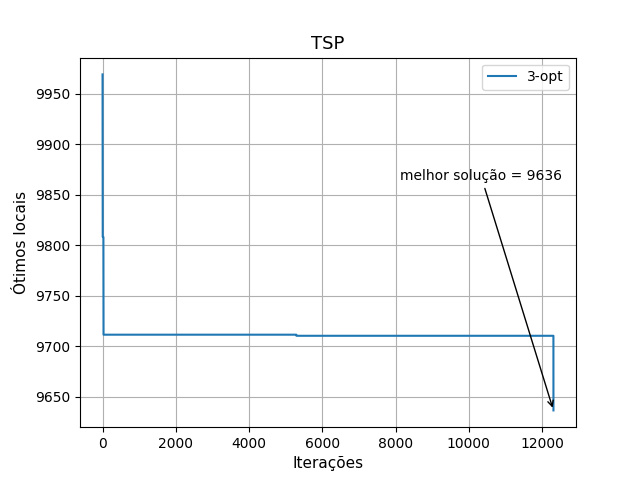
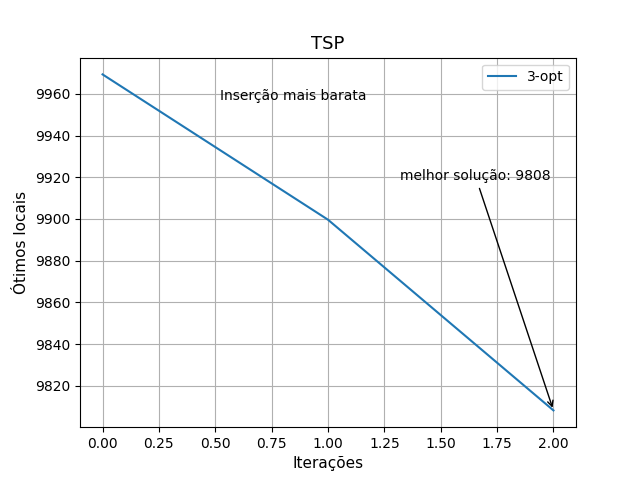
vizinho mais distante incluso

diff --git a/PCV/constructive.py b/PCV/constructive.py
@@ -8,7 +8,6 @@
 from math import dist
 
 # Uma cópia local de funções como essa reduz o tempo de execução
-from improvement import sumdistance
 
 localLen = len
 localDist = dist
@@ -59,6 +58,45 @@ def nearestneighbour(graph):
 
 ###########################################################################################
 
+def distantneighbour(graph):
+    selected = 1
+    first = selected
+
+    walkedPath = [selected]
+    graph[selected]['used'] = True
+
+    while True:
+        maior = float('-inf')
+
+        maior_index = -1
+
+        # Conteiro para verificar se todos os vizinho já foram explorados
+        end_counter = 0
+        for i in range(1, localLen(graph)):
+            # print("selected = {} i = {}".format(selected, i))
+
+            if (i == selected) or (graph[i]['used']):
+                end_counter += 1
+                continue
+            disti = localDist([graph[selected]['x'], graph[selected]['y']], [graph[i]['x'], graph[i]['y']])
+            if disti > maior:
+                maior = disti
+                maior_index = i
+
+        if end_counter == (localLen(graph) - 1):
+            walkedPath.append(first)
+            break
+
+        walkedPath.append(maior_index)
+        graph[maior_index]['used'] = True
+        selected = maior_index
+
+    # print(f'\nwalkedPath = {walkedPath}')
+
+    return walkedPath
+
+###########################################################################################
+
 def insertdist(graph):
     route = [1, 2, 3]
     sizegraph = localLen(graph)
@@ -70,7 +108,7 @@ def insertdist(graph):
         k = 1
         selected_i = 1
         for i in range(localLen(route) - 1):
-            for j in range(i + 1, sizegraph ):
+            for j in range(i + 1, sizegraph):
                 disti = localDist([graph[route[i]]['x'], graph[route[i]]['y']], [graph[j]['x'], graph[j]['y']])
                 if graph[j]['used'] is False and disti > maior:
                     k = j

diff --git a/PCV/main.py b/PCV/main.py
@@ -1,8 +1,8 @@
 # -*- coding: utf-8 -*-
 
-from input import fileinput, runcodesinput
+from input import fileinput
 from constructive_matrix import nearestneighbour_matrix, insertdist_matrix, getalldistances, insertcheap_matrix
-from constructive import nearestneighbour, insertdist, insertcheap
+from constructive import nearestneighbour, insertdist, insertcheap, distantneighbour
 from improvement_matrix import two_opt_matrix, sumdistance_matrix
 from improvement import two_opt, sumdistance, three_opt
 from aux import printgraph, plot_graf
@@ -65,7 +65,11 @@ if __name__ == '__main__':
 
         ### Heurística melhorativa 3-opt
         elif args.algoritmo_melhorativo == 'opt3':
-            three_opt(graph, route)
+            print('### Heurística melhorativa 3opt...')
+            cost, plt_counters, plt_opts = three_opt(graph, route)
+            cost = int(cost)
+            imp_name = "3-opt"
+            plot_graf(plt_opts, plt_counters, constr_name, imp_name, file_name, cost)
         else:
             print("{} não é um argumento válido!\n".format(args.algoritmo_melhorativo))
 
@@ -79,6 +83,13 @@ if __name__ == '__main__':
             route = nearestneighbour(graph)
             constr_name = 'Vizinho mais próximo'
             print(f'### Heurística construtiva {constr_name}')
+
+        ### Heurística construtiva Vizinho mais distante
+        elif args.algoritmo_construtivo == 'vd':
+            x = 1
+            route = distantneighbour(graph)  # usando matriz de distâncias
+            constr_name = 'Vizinho mais próximo'
+            print(f'### Heurística construtiva {constr_name}...')
 
         ### Heurística construtiva Inserção do mais distante
         elif args.algoritmo_construtivo == 'id':

diff --git a/PCV/aux.py b/PCV/aux.py
@@ -28,7 +28,10 @@ def plot_graf(opt_values, counter_values, constr_name, imp_name, file_name, cost
         arrowprops=dict(arrowstyle="->", connectionstyle="arc3")
     )
     plt.text(  # position text absolutely at specific pixel on image
-        220, 380, f'{constr_name}',
+        220, 380,
+        f'{constr_name}', color='green',
+        fontsize= 11,
+        bbox= dict(facecolor='none', edgecolor='green'),
         transform=None
     )
     plt.xlabel("Iterações", fontsize=11)
@@ -37,5 +40,5 @@ def plot_graf(opt_values, counter_values, constr_name, imp_name, file_name, cost
     # plt.scatter(counter_values, opt_values, marker="+", color='red')
     plt.legend(loc='best')
     plt.savefig(f'{constr_name.replace(" ", "_") + "_" + imp_name.replace(" ", "_") + "_" + file_name.replace(" ", "_").replace(".tsp", ".png")}')
-    # plt.show()
+    plt.show()
     # print(route)

diff --git a/PCV/improvement.py b/PCV/improvement.py
@@ -132,15 +132,15 @@ def three_opt(graph, route):
 
     while not should_break:
 
-        for a in range(size_route - 5):
+        for a in range(size_route - 1):
             if should_break:
                 break
-            for b in range(a + 2, size_route - 3):
+            for b in range(a + 2, size_route - 1):
                 if should_break:
                     break
                 for c in range(b + 2, size_route - 1 ):
 
-                    if counter >= 5:
+                    if counter >= 2:
                         should_break = True
                         break
 

diff --git a/PCV/input.py b/PCV/input.py
@@ -22,8 +22,8 @@ def is_valid_file(parser, arg):
 
 def fileinput():
     # algumas definições para --help
-    parser = ArgumentParser(description='Solver to PCV ',
-                            epilog="(Try 'python3 main.py att48.tsp')")
+    parser = ArgumentParser(description='Heurísticas para o problema do caixeiro viajante. ',
+                            epilog="Divirta-se: >_ python3 main.py att48.tsp")
 
     parser.add_argument(dest="filename", help='.tsp file with graph coordinates',
                         type=lambda x: is_valid_file(parser, x))
